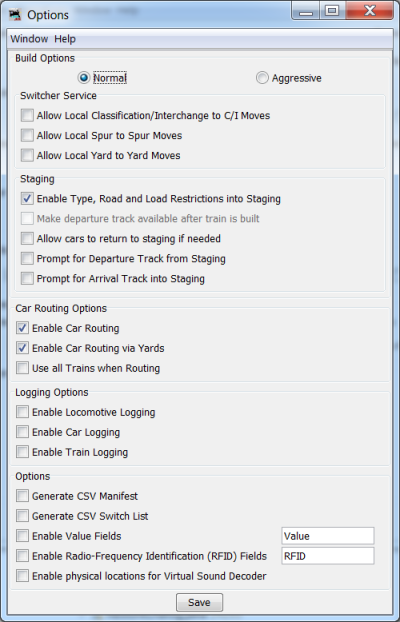
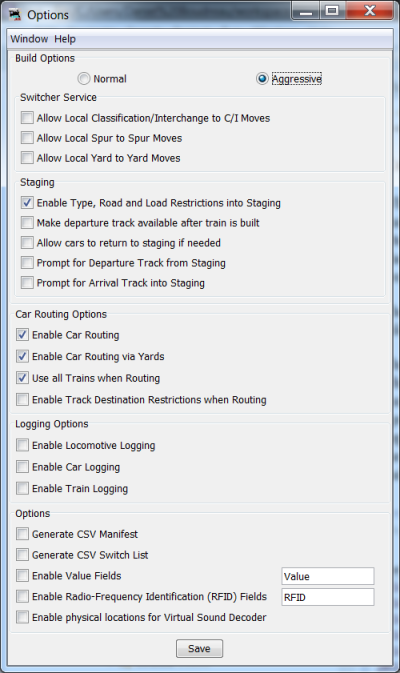
Allow user access to a fourth option for car routing

diff --git a/java/src/jmri/jmrit/operations/router/Router.java b/java/src/jmri/jmrit/operations/router/Router.java
@@ -356,25 +356,27 @@ public class Router extends TrainCommon {
 			addLine(_buildReport, SEVEN, MessageFormat.format(Bundle.getMessage("RouterFindTrack"), new Object[] {
 					trackType, car.toString(), testCar.getDestinationName(), testCar.getDestinationTrackName() }));
 		// save car's location, track, destination, and destination track
-		Location saveLocation = testCar.getLocation();
 		Track saveTrack = testCar.getTrack();
-		Location saveDestation = testCar.getDestination();
-		Track saveDestTrack = testCar.getDestinationTrack();
+		Location saveDestination = testCar.getDestination();
+		Track saveDestinationTrack = testCar.getDestinationTrack();
 		if (saveTrack == null) {
 			log.debug("Car's track is null! Can't route");
 			return false;
 		}
 		boolean foundRoute = false;
 		// now search for a yard or interchange that a train can pick up and deliver the car to its destination
-		List<Track> tracks = LocationManager.instance().getTracksByMoves(trackType);// restrict to yards, interchanges, or
-																				// staging
+		List<Track> tracks = LocationManager.instance().getTracksByMoves(trackType);
 		for (int i = 0; i < tracks.size(); i++) {
 			Track track = tracks.get(i);
+			if (saveTrack == track)
+				continue; // don't use car's current track
+			// don't allow interchange to interchange move
+//			if (saveTrack.getLocation() == track.getLocation() && saveTrack.getTrackType().equals(track.getTrackType())
+//					&& _train.isServiceAllCarsWithFinalDestinationsEnabled())
+//				continue; // don't use same track types at the car's current location
 			String status = track.accepts(testCar);
 			if (!status.equals(Track.OKAY) && !status.startsWith(Track.LENGTH))
 				continue;
-			if (saveTrack == track)
-				continue; // don't use car's current track
 			if (debugFlag)
 				log.debug("Found " + trackType + " track (" + track.getLocation().getName() + ", " + track.getName()
 						+ ") for car (" + car.toString() + ")"); // NOI18N
@@ -384,8 +386,8 @@ public class Router extends TrainCommon {
 			// test to see if there's a train that can deliver the car to its final location
 			testCar.setLocation(track.getLocation());
 			testCar.setTrack(track);
-			testCar.setDestination(saveDestation);
-			testCar.setDestinationTrack(saveDestTrack);
+			testCar.setDestination(saveDestination);
+			testCar.setDestinationTrack(saveDestinationTrack);
 			Train nextTrain = TrainManager.instance().getTrainForCar(testCar, _buildReport);
 			if (nextTrain == null) {
 				if (debugFlag)
@@ -413,7 +415,7 @@ public class Router extends TrainCommon {
 			// Save the "last" tracks for later use
 			_lastLocationTracks.add(track);
 			// now try to forward car to this interim location
-			testCar.setLocation(saveLocation); // restore car's location and track
+			testCar.setLocation(saveTrack.getLocation()); // restore car's location and track
 			testCar.setTrack(saveTrack);
 			testCar.setDestination(track.getLocation()); // forward test car to this interim destination and track
 			testCar.setDestinationTrack(track);
@@ -745,6 +747,10 @@ public class Router extends TrainCommon {
 			Track track = tracks.get(i);
 			if (track == car.getTrack())
 				continue; // don't use car's current track
+			// don't allow interchange to interchange move if forcing a car move
+//			if (car.getTrack().getLocation() == track.getLocation() && car.getTrack().getTrackType().equals(track.getTrackType())
+//					&& _train.isServiceAllCarsWithFinalDestinationsEnabled())
+//				continue; // don't use same track types at the car's current location
 			String status = track.accepts(testCar);
 			if (!status.equals(Track.OKAY) && !status.startsWith(Track.LENGTH))
 				continue; // track doesn't accept this car

diff --git a/java/src/jmri/jmrit/operations/setup/OptionFrame.java b/java/src/jmri/jmrit/operations/setup/OptionFrame.java
@@ -41,6 +41,7 @@ public class OptionFrame extends OperationsFrame {
 	JCheckBox routerCheckBox = new JCheckBox(Bundle.getMessage("EnableCarRouting"));
 	JCheckBox routerYardCheckBox = new JCheckBox(Bundle.getMessage("EnableCarRoutingYard"));
 	JCheckBox routerAllTrainsBox = new JCheckBox(Bundle.getMessage("AllTrains"));
+	JCheckBox routerRestrictBox = new JCheckBox(Bundle.getMessage("EnableTrackDestinationRestrications"));
 	
 	JCheckBox valueCheckBox = new JCheckBox(Bundle.getMessage("EnableValue"));
 	JCheckBox rfidCheckBox = new JCheckBox(Bundle.getMessage("EnableRfid"));
@@ -89,6 +90,7 @@ public class OptionFrame extends OperationsFrame {
 		routerCheckBox.setSelected(Setup.isCarRoutingEnabled());
 		routerYardCheckBox.setSelected(Setup.isCarRoutingViaYardsEnabled());
 		routerAllTrainsBox.setSelected(!Setup.isOnlyActiveTrainsEnabled());
+		routerRestrictBox.setSelected(Setup.isCheckCarDestinationEnabled());
 		// logging options
 		carLoggerCheckBox.setSelected(Setup.isCarLoggerEnabled());
 		engineLoggerCheckBox.setSelected(Setup.isEngineLoggerEnabled());
@@ -158,6 +160,7 @@ public class OptionFrame extends OperationsFrame {
 		addItemLeft(pRouter, routerCheckBox, 1, 0);
 		addItemLeft(pRouter, routerYardCheckBox, 1, 1);
 		addItemLeft(pRouter, routerAllTrainsBox, 1, 2);
+		addItemLeft(pRouter, routerRestrictBox, 1, 3);
 
 		// Logger panel
 		JPanel pLogger = new JPanel();
@@ -248,6 +251,7 @@ public class OptionFrame extends OperationsFrame {
 			Setup.setCarRoutingEnabled(routerCheckBox.isSelected());
 			Setup.setCarRoutingViaYardsEnabled(routerYardCheckBox.isSelected());
 			Setup.setOnlyActiveTrainsEnabled(!routerAllTrainsBox.isSelected());
+			Setup.setCheckCarDestinationEnabled(routerRestrictBox.isSelected());
 			// Options
 			TrainManager.instance().setGenerateCsvManifestEnabled(generateCvsManifestCheckBox.isSelected());
 			Setup.setGenerateCsvSwitchListEnabled(generateCvsSwitchListCheckBox.isSelected());

diff --git a/java/src/jmri/jmrit/operations/locations/TrackTableModel.java b/java/src/jmri/jmrit/operations/locations/TrackTableModel.java
@@ -13,6 +13,7 @@ import javax.swing.table.AbstractTableModel;
 import java.util.ArrayList;
 import java.util.List;
 
+import jmri.jmrit.operations.setup.Control;
 import jmri.util.swing.XTableColumnModel;
 import jmri.util.table.ButtonEditor;
 import jmri.util.table.ButtonRenderer;
@@ -337,8 +338,9 @@ public class TrackTableModel extends AbstractTableModel implements PropertyChang
 
 	// this table listens for changes to a location and it's tracks
 	public void propertyChange(PropertyChangeEvent e) {
-		// if (Control.showProperty && log.isDebugEnabled())
-		log.debug("Property change " + e.getPropertyName() + " old: " + e.getOldValue() + " new: " + e.getNewValue());
+		if (Control.showProperty && log.isDebugEnabled())
+			log.debug("Property change " + e.getPropertyName() + " old: " + e.getOldValue() + " new: "
+					+ e.getNewValue());
 		if (e.getPropertyName().equals(Location.TRACK_LISTLENGTH_CHANGED_PROPERTY)) {
 			updateList();
 			fireTableDataChanged();

diff --git a/java/src/jmri/jmrit/operations/rollingstock/RollingStockManager.java b/java/src/jmri/jmrit/operations/rollingstock/RollingStockManager.java
@@ -330,7 +330,7 @@ public class RollingStockManager {
 	 * @return list of RollingStock ordered by RollingStock location
 	 */
 	public List<RollingStock> getByLocationList() {
-		return getByList(getByNumberList(), BY_LOCATION);
+		return getByList(getList(), BY_LOCATION);
 	}
 
 	/**
@@ -567,7 +567,7 @@ public class RollingStockManager {
 	 * Get a list of rolling stocks assigned to a train
 	 * 
 	 * @param train
-	 * @return List of RollingStock ids assigned to the train
+	 * @return List of RollingStock assigned to the train
 	 */
 	public List<RollingStock> getByTrainList(Train train) {
 		List<RollingStock> byLoc = getByLocationList();
